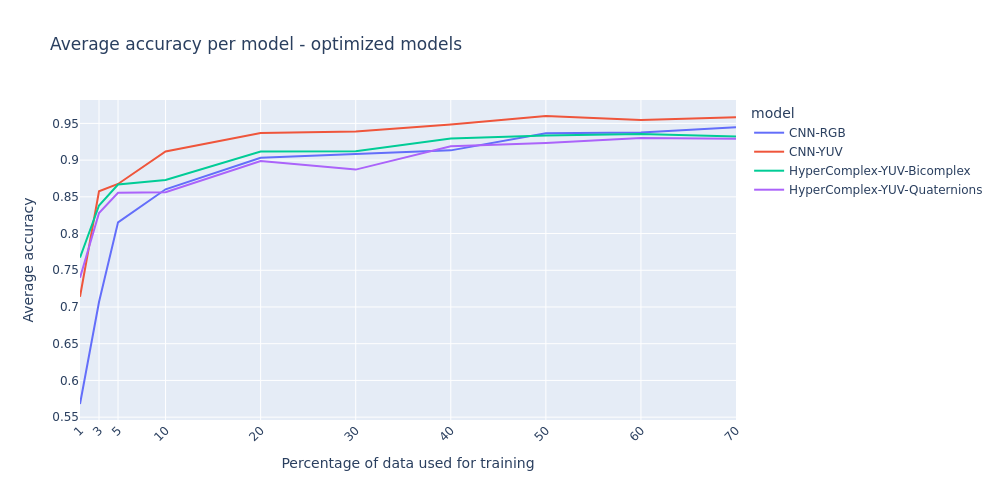
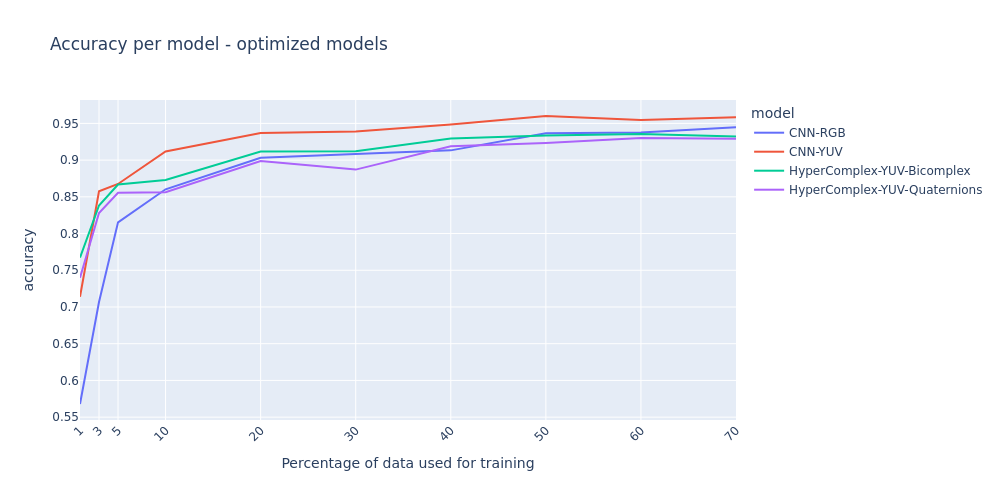
Additional data

diff --git a/analysis/AvgAndSD_Calculator.py b/analysis/AvgAndSD_Calculator.py
@@ -1,0 +1,97 @@
+import os
+import json
+import numpy as np
+from collections import defaultdict
+from scipy.stats import iqr
+import matplotlib.pyplot as plt
+import seaborn as sns
+
+def calculate_accuracy_statistics(base_path):
+    algebra_stats = defaultdict(list)
+
+    run1_path = os.path.join(base_path, "run1", "results")
+    for subfolder in os.listdir(run1_path):
+        subfolder_path = os.path.join(run1_path, subfolder)
+        training_file = os.path.join(subfolder_path, "training.json")
+
+        if os.path.isfile(training_file):
+            with open(training_file, "r") as f:
+                data = json.load(f)
+                algebra = data.get("model_name", {}).get("algebra")
+                accuracy = data.get("evaluation_result", {}).get("accuracy")
+
+                if algebra and accuracy is not None:
+                    algebra_stats[algebra].append(accuracy)
+
+    results = {}
+    for algebra, accuracies in algebra_stats.items():
+        accuracies = np.array(accuracies)
+        results[algebra] = {
+            "COUNT": len(accuracies),
+            "MAX": np.max(accuracies),
+            "MIN": np.min(accuracies),
+            "AVG": np.mean(accuracies),
+            "MEDIAN": np.median(accuracies),
+            "STD": np.std(accuracies),
+            "IQR": iqr(accuracies),
+            "RANGE": np.max(accuracies) - np.min(accuracies)
+        }
+
+    return results, algebra_stats
+
+
+def cohen_d(x, y):
+    x, y = np.array(x), np.array(y)
+    nx, ny = len(x), len(y)
+    pooled_std = np.sqrt(((nx - 1) * np.std(x, ddof=1) ** 2 + (ny - 1) * np.std(y, ddof=1) ** 2) / (nx + ny - 2))
+    return (np.mean(x) - np.mean(y)) / pooled_std
+
+def generate_plots(algebra_stats, phase):
+    plt.figure(figsize=(8, 6))
+    data = []
+    labels = []
+
+    for algebra, accuracies in algebra_stats.items():
+        data.append(np.array(accuracies))
+        labels.append(algebra)
+
+    sns.boxplot(data=data, orient="v")
+    plt.title("Boxplot for transformation permutations")
+    plt.ylabel("Accuracy")
+    plt.xticks(ticks=range(len(labels)), labels=labels, rotation=45)
+    plt.tight_layout()
+    plt.savefig(f"{phase}/all_algebras_boxplot.png")
+    plt.close()
+
+
+def print_results(phase, plots):
+    statistics, raw = calculate_accuracy_statistics(phase)
+
+    if plots:
+        generate_plots(raw, phase)
+
+    print(f"Statistics for {phase}:")
+    for algebra, stats in sorted(statistics.items(), key=lambda x: -x[1]["AVG"]):
+        print(f"\nAlgebra: {algebra}")
+        for stat_name, value in stats.items():
+            print(f"  {stat_name}: {value:.6f}")
+
+    if len(raw) == 2:
+        keys = list(raw.keys())
+        d = cohen_d(raw[keys[0]], raw[keys[1]])
+        print(f"Cohen's d between {keys[0]} and {keys[1]}: {d:.4f}")
+        if abs(d) < 0.2:
+            interpretation = "negligible"
+        elif abs(d) < 0.5:
+            interpretation = "small"
+        elif abs(d) < 0.8:
+            interpretation = "medium"
+        else:
+            interpretation = "large"
+        print(f"Effect size interpretation: {interpretation}")
+
+    print("\n" + "-" * 40 + "\n")
+
+
+print_results("phase21", plots=False)
+print_results("phase22", plots=False)

diff --git a/analysis/MultiRunAnalysis.py b/analysis/MultiRunAnalysis.py
@@ -9,9 +9,9 @@ JSON_RESULT_FILE = "training.json"
 RUNS_TO_TEST = ["run1", "run2", "run3", "run4", "run5", "run6", "run7", "run8", "run9", "run10"]
 RUN_LABELS_SPLIT_1234 = [1, 3, 5, 10, 15, 20, 40, 50, 60, 80] # For phase 1, 2, 3, 4
 RUN_LABELS_SPLIT_5_PLUS = [1, 3, 5, 10, 20, 30, 40, 50, 60, 70] # For phase 5-14, 19-20
-RUN_LABELS_SPLIT_16_PLUS = [70] # For phase 16+
-start_phase = 14        # Inclusive
-end_phase = 14          # Inclusive
+RUN_LABELS_SPLIT_TUNING = [70] # For phase 16+
+start_phase = 20        # Inclusive
+end_phase = 20          # Inclusive
 # ---------------------------------------------------------
 
 def read_phase_data(run_phase, runs, only_hypercomplex=False):
@@ -81,7 +81,7 @@ def get_average_evaluation_grouped_by(data, runs, run_phase, run_labels, group_b
     df = pd.DataFrame(plot_data)
 
     fig = plt_exp.line(df, x="run_name", y=f"average_{evaluation_key}", color=f"{group_by_key}",
-                       title=f"Average {evaluation_key} per {group_by_key} - architecture 5",
+                       title=f"Average {evaluation_key} per {group_by_key} - optimized models",
                        labels={"run_name": "Percentage of data used for training", f"average_{evaluation_key}": f"Average {evaluation_key}",
                                f"{group_by_key}": f"{group_by_key}"})
 
@@ -102,8 +102,8 @@ def get_average_evaluation_by_model(data, runs, run_phase, run_labels, evaluatio
     df = pd.DataFrame(plot_data)
 
     fig = plt_exp.line(df, x="run_name", y=f"average_{evaluation_key}", color="model",
-                       title=f"Average {evaluation_key} per model - architecture 5",
-                       labels={"run_name": "Percentage of data used for training", f"average_{evaluation_key}": f"Average {evaluation_key}",
+                       title=f"Accuracy per model - optimized models",
+                       labels={"run_name": "Percentage of data used for training", f"average_{evaluation_key}": f"{evaluation_key}",
                                "model": "model"})
 
     fig.update_layout(xaxis_tickangle=-45, height=500, width=1000, xaxis=dict(tickmode='array',tickvals=run_labels, ticktext=run_labels))

diff --git a/analysis/ResultEvaluation.py b/analysis/ResultEvaluation.py
@@ -4,7 +4,7 @@ from analysis.MultiRunAnalysis import evaluation_by, read_phase_data, RUNS_TO_TE
 
 phases_to_compare = []
 
-for phase in [f"phase{i}" for i in range(8, 15)]:
+for phase in [f"phase{i}" for i in range(21, 21)]:
     phases_to_compare.append(read_phase_data(phase, RUNS_TO_TEST, only_hypercomplex=False))
 
 def get_average_evaluation_between_phases_by_model(phases_data, phase_nums, run_labels, runs, evaluation_key="accuracy"):
@@ -39,5 +39,5 @@ def get_average_evaluation_between_phases_by_model(phases_data, phase_nums, run_
         f.write(model_averages_markdown)
 
 
-get_average_evaluation_between_phases_by_model(phases_to_compare, (8, 9, 10, 11, 12, 13, 14), RUN_LABELS_SPLIT_5_PLUS, RUNS_TO_TEST, "accuracy")
-get_average_evaluation_between_phases_by_model(phases_to_compare, (8, 9, 10, 11, 12, 13, 14), RUN_LABELS_SPLIT_5_PLUS, RUNS_TO_TEST, "F1-Score")
+get_average_evaluation_between_phases_by_model(phases_to_compare, (21), [70], RUNS_TO_TEST, "accuracy")
+# get_average_evaluation_between_phases_by_model(phases_to_compare, (21), [70], RUNS_TO_TEST, "F1-Score")

diff --git a/models/CalculateParams.py b/models/CalculateParams.py
@@ -19,7 +19,8 @@ def calculateParamsHyperConv(filters, kernel_size, input_size, layer_before_flat
 
 #filters = (8, 16, 32, 64) # - params/4 -> 228 608
 #filters = (11, 22, 45, 90) # - params/2 -> 450 420
-filters = (4, 8, 16) # - params -> 912 896
+#filters = (16, 32, 64, 128) # - params -> 912 896
+filters = (4, 8, 16)
 
 layer_before_flatten_shape = (10, 10, 64)
 kernel_size = [(3, 3), (3, 3), (3, 3)]
